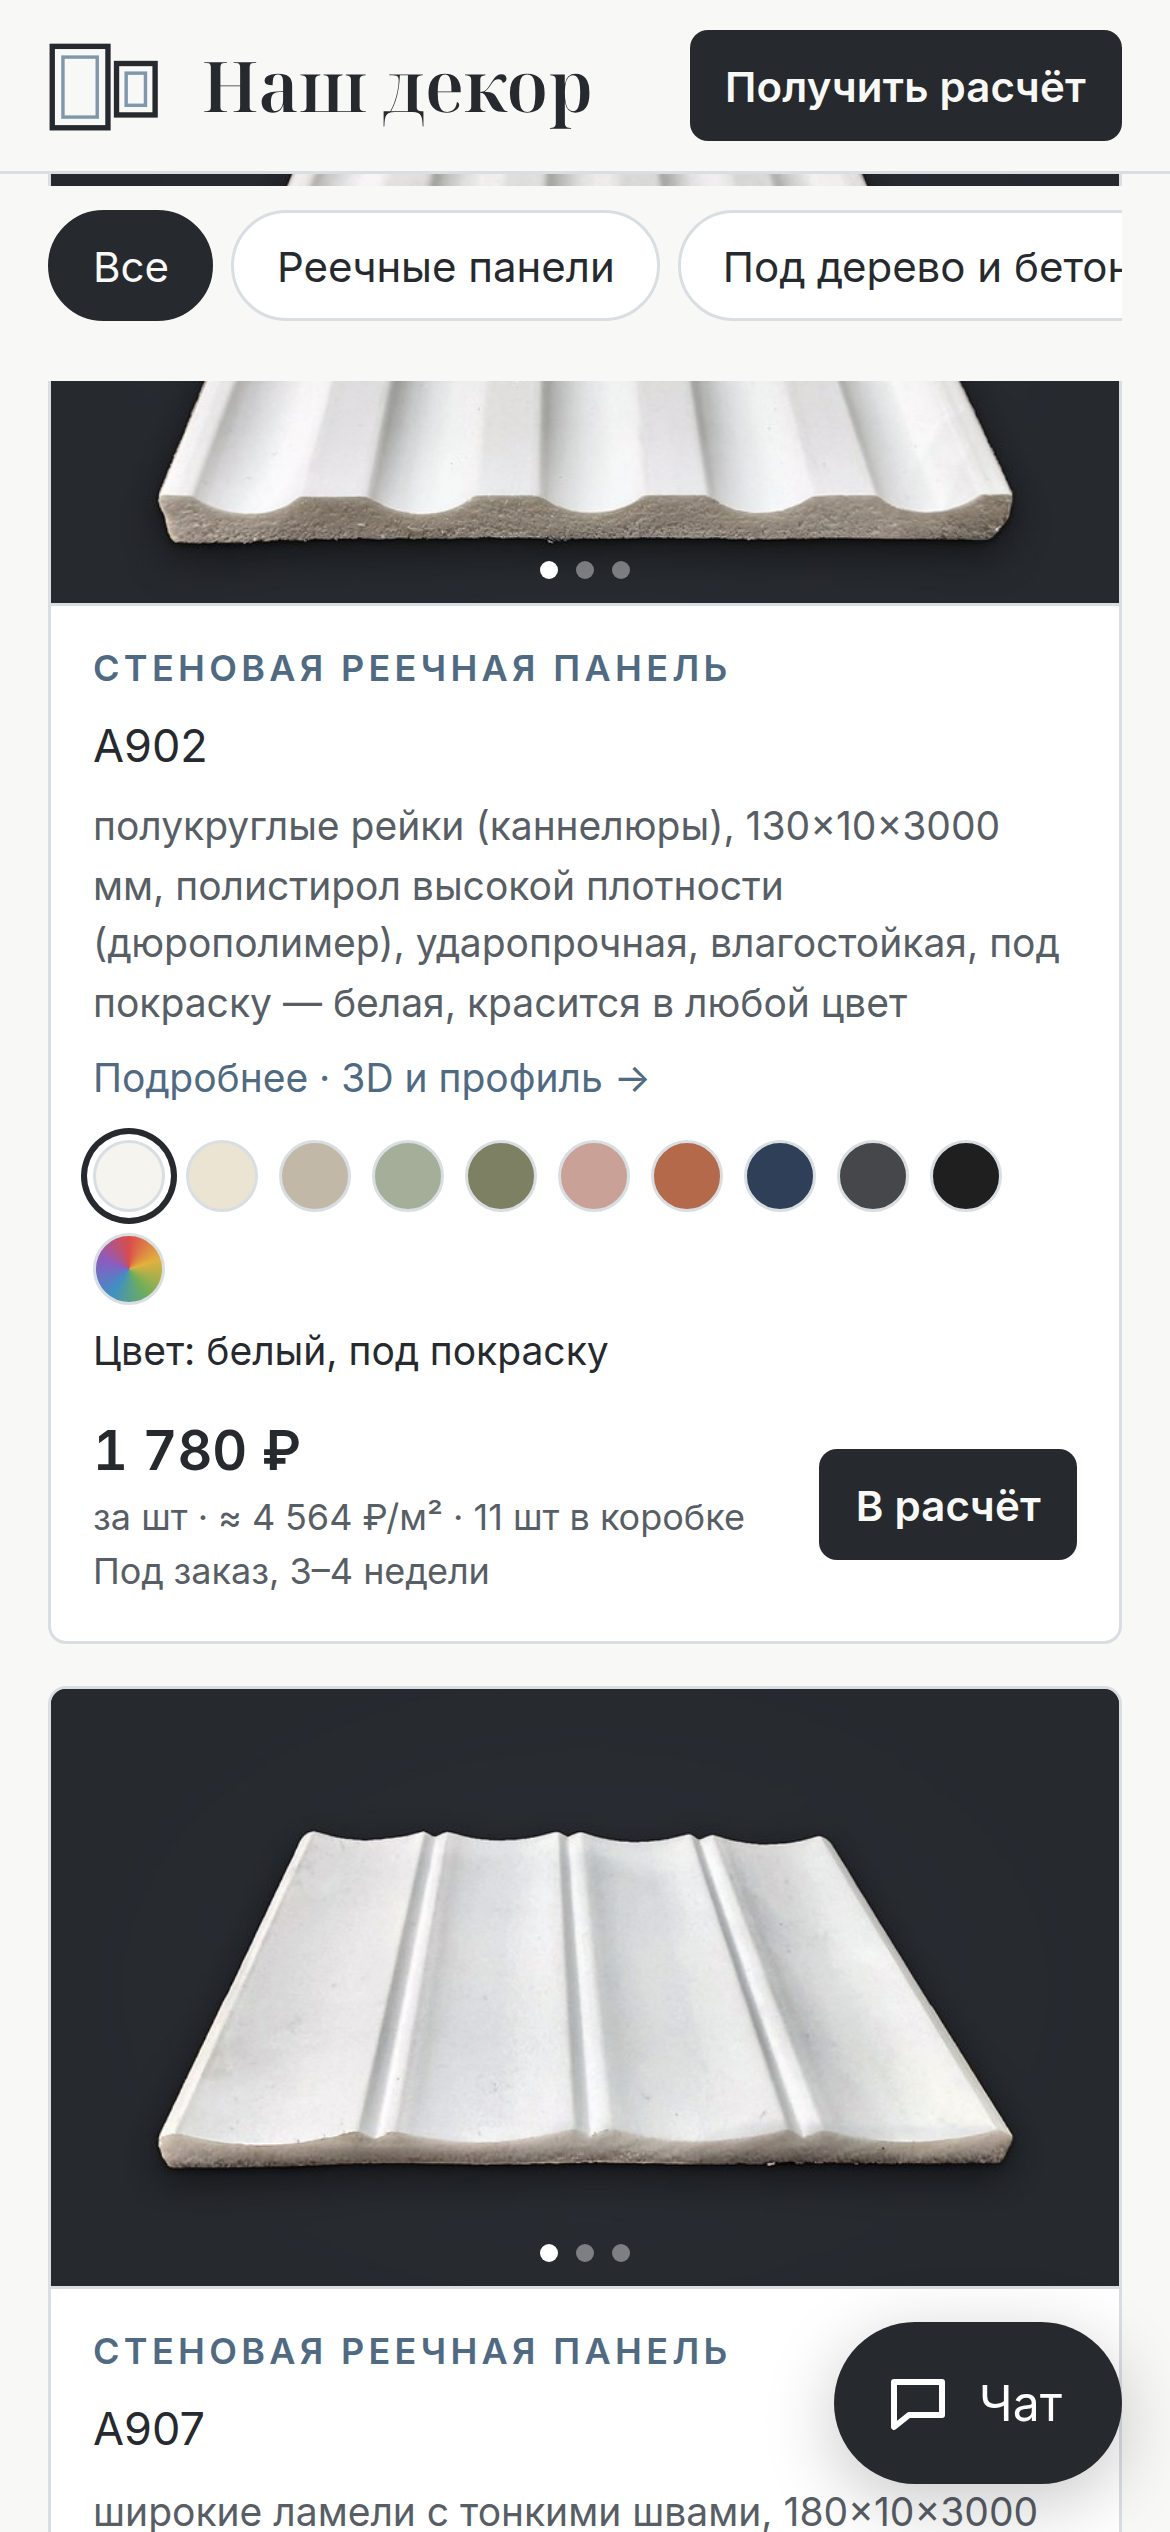
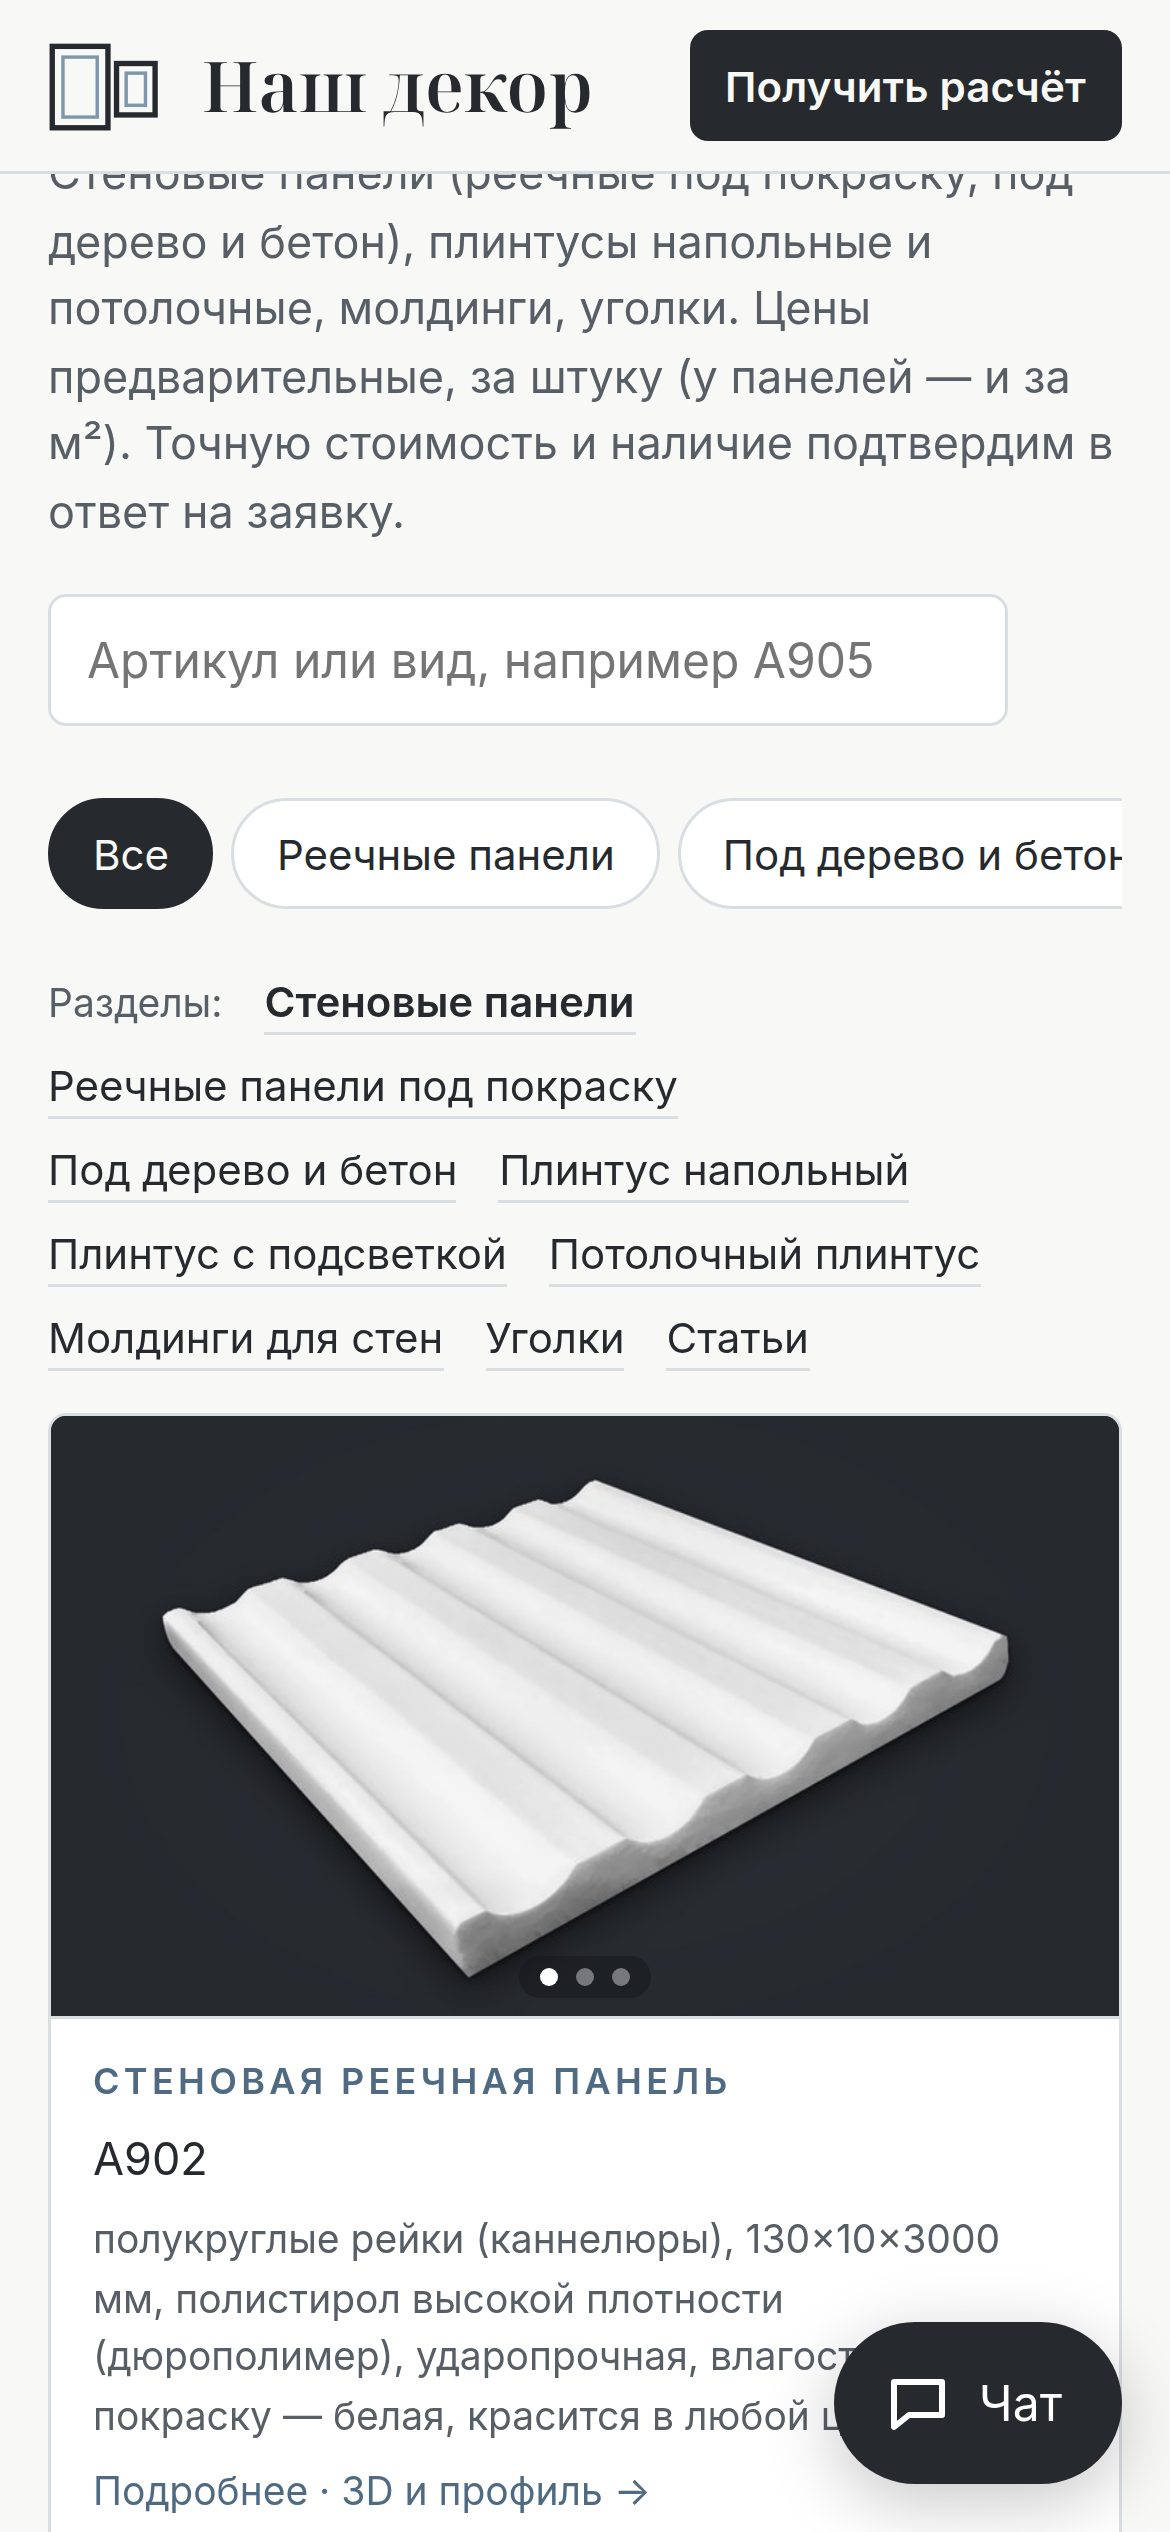
shots 2026-11-16_19:07

diff --git a/status/shots.md b/status/shots.md
@@ -1,7 +1,13 @@
-# Скриншоты сайта — 2026-11-16 17:57 UTC
+# Скриншоты сайта — 2026-11-16 19:05 UTC
 
-- **a701-f** mobile https://nashdekor.ru/p/a701/?s=11 — ok
-- **ap1-f** mobile https://nashdekor.ru/p/ap1-100/?s=11 — ok
-- **a25-f** mobile https://nashdekor.ru/p/a25/?s=11 — ok
-- **a605-f** mobile https://nashdekor.ru/p/a605/?s=11 — ok
-- **a608-f** mobile https://nashdekor.ru/p/a608/?s=11 — ok
+- **calc-m** mobile https://nashdekor.ru/?s=12 — ok
+- **calc-pick-m** mobile https://nashdekor.ru/?s=12&panel=3-7 — ОШИБКА Page.goto: Timeout 45000ms exceeded.
+Call log:
+  - navigating to "https://nashdekor.ru/?s=12&panel=3-7", waiting until "networkidle"
+
+- **calc-d** desktop https://nashdekor.ru/?s=12 — ok
+- **calc-side-d** desktop https://nashdekor.ru/?s=12&panel=5-10 — ОШИБКА Page.goto: Timeout 45000ms exceeded.
+Call log:
+  - navigating to "https://nashdekor.ru/?s=12&panel=5-10", waiting until "networkidle"
+
+- **cat-m** mobile https://nashdekor.ru/?s=12 — ok
